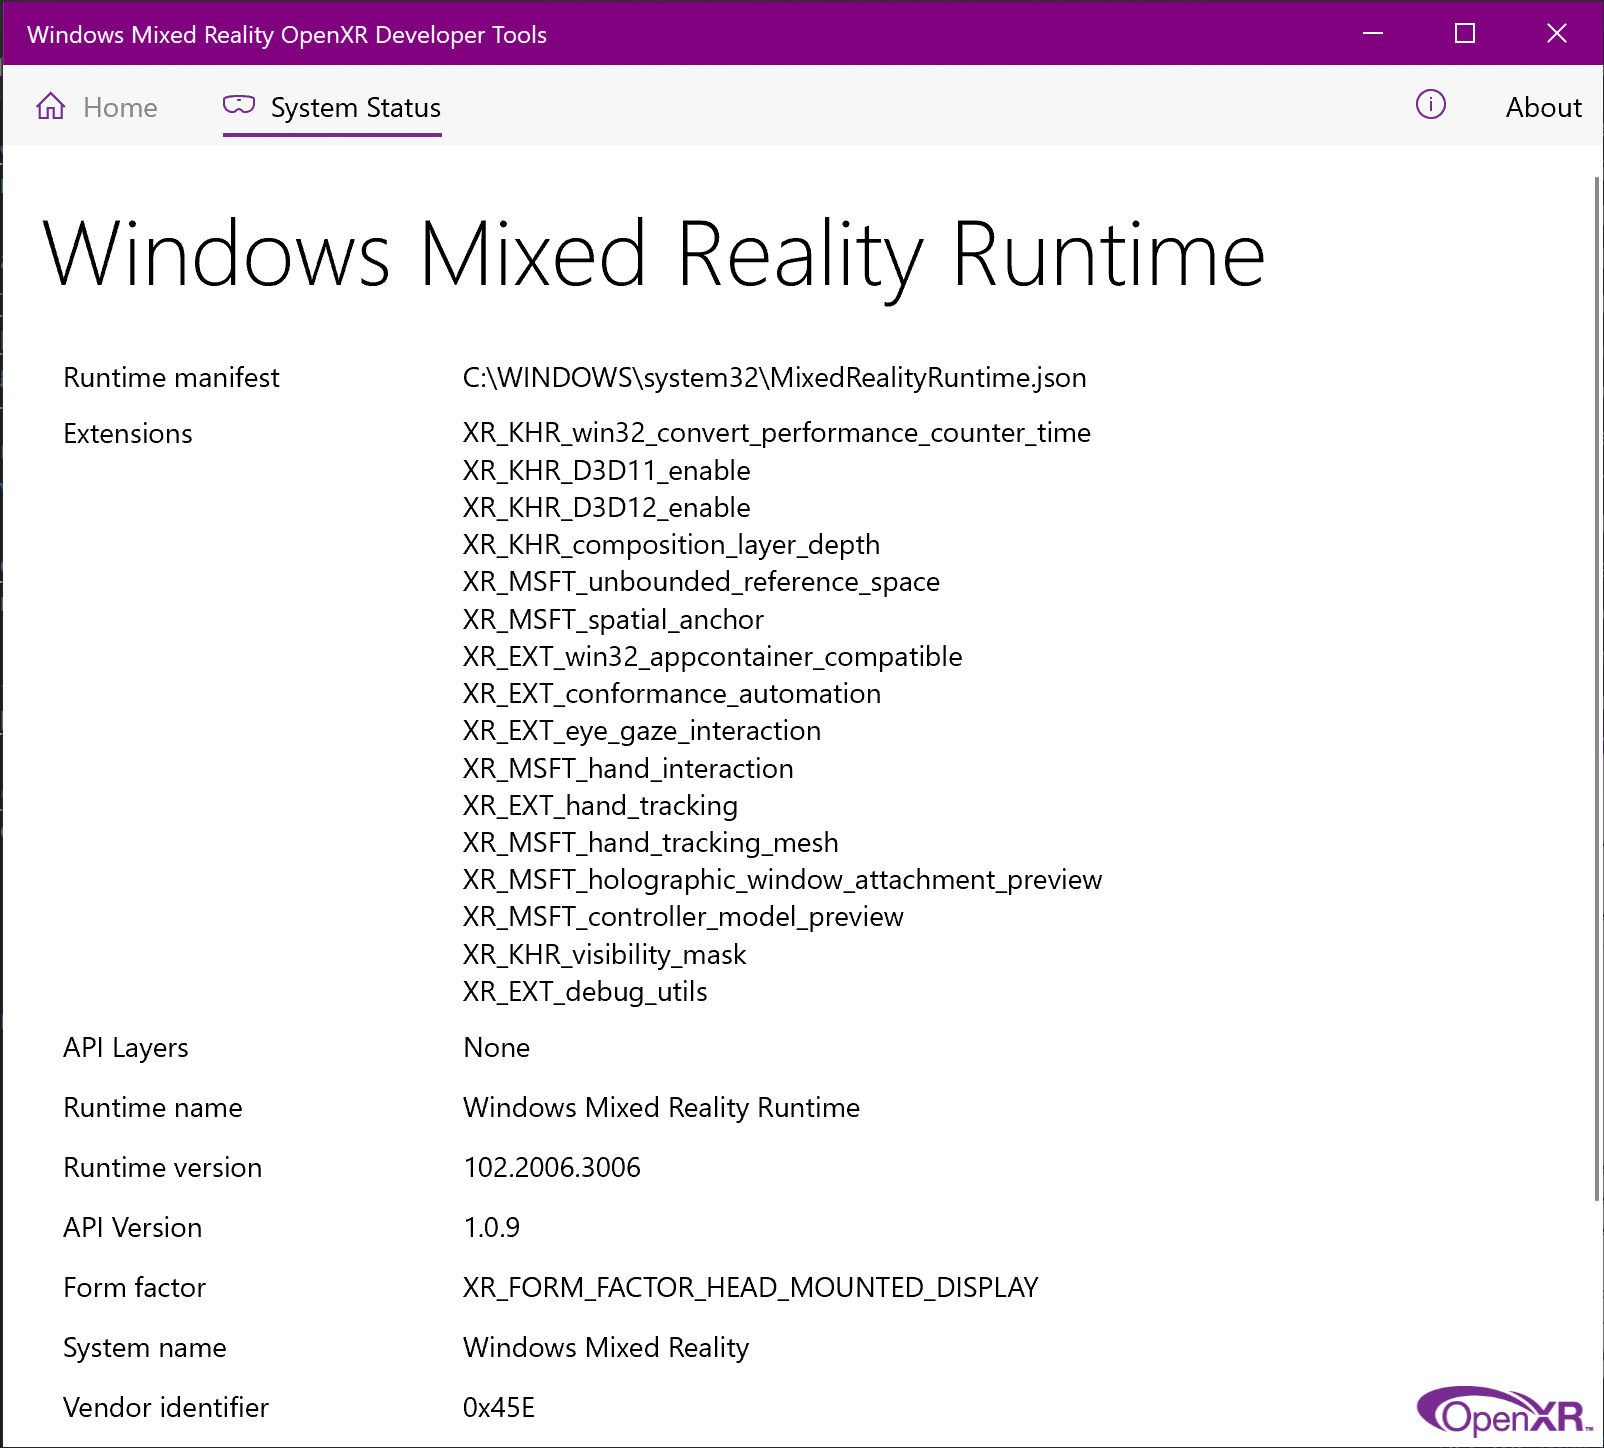
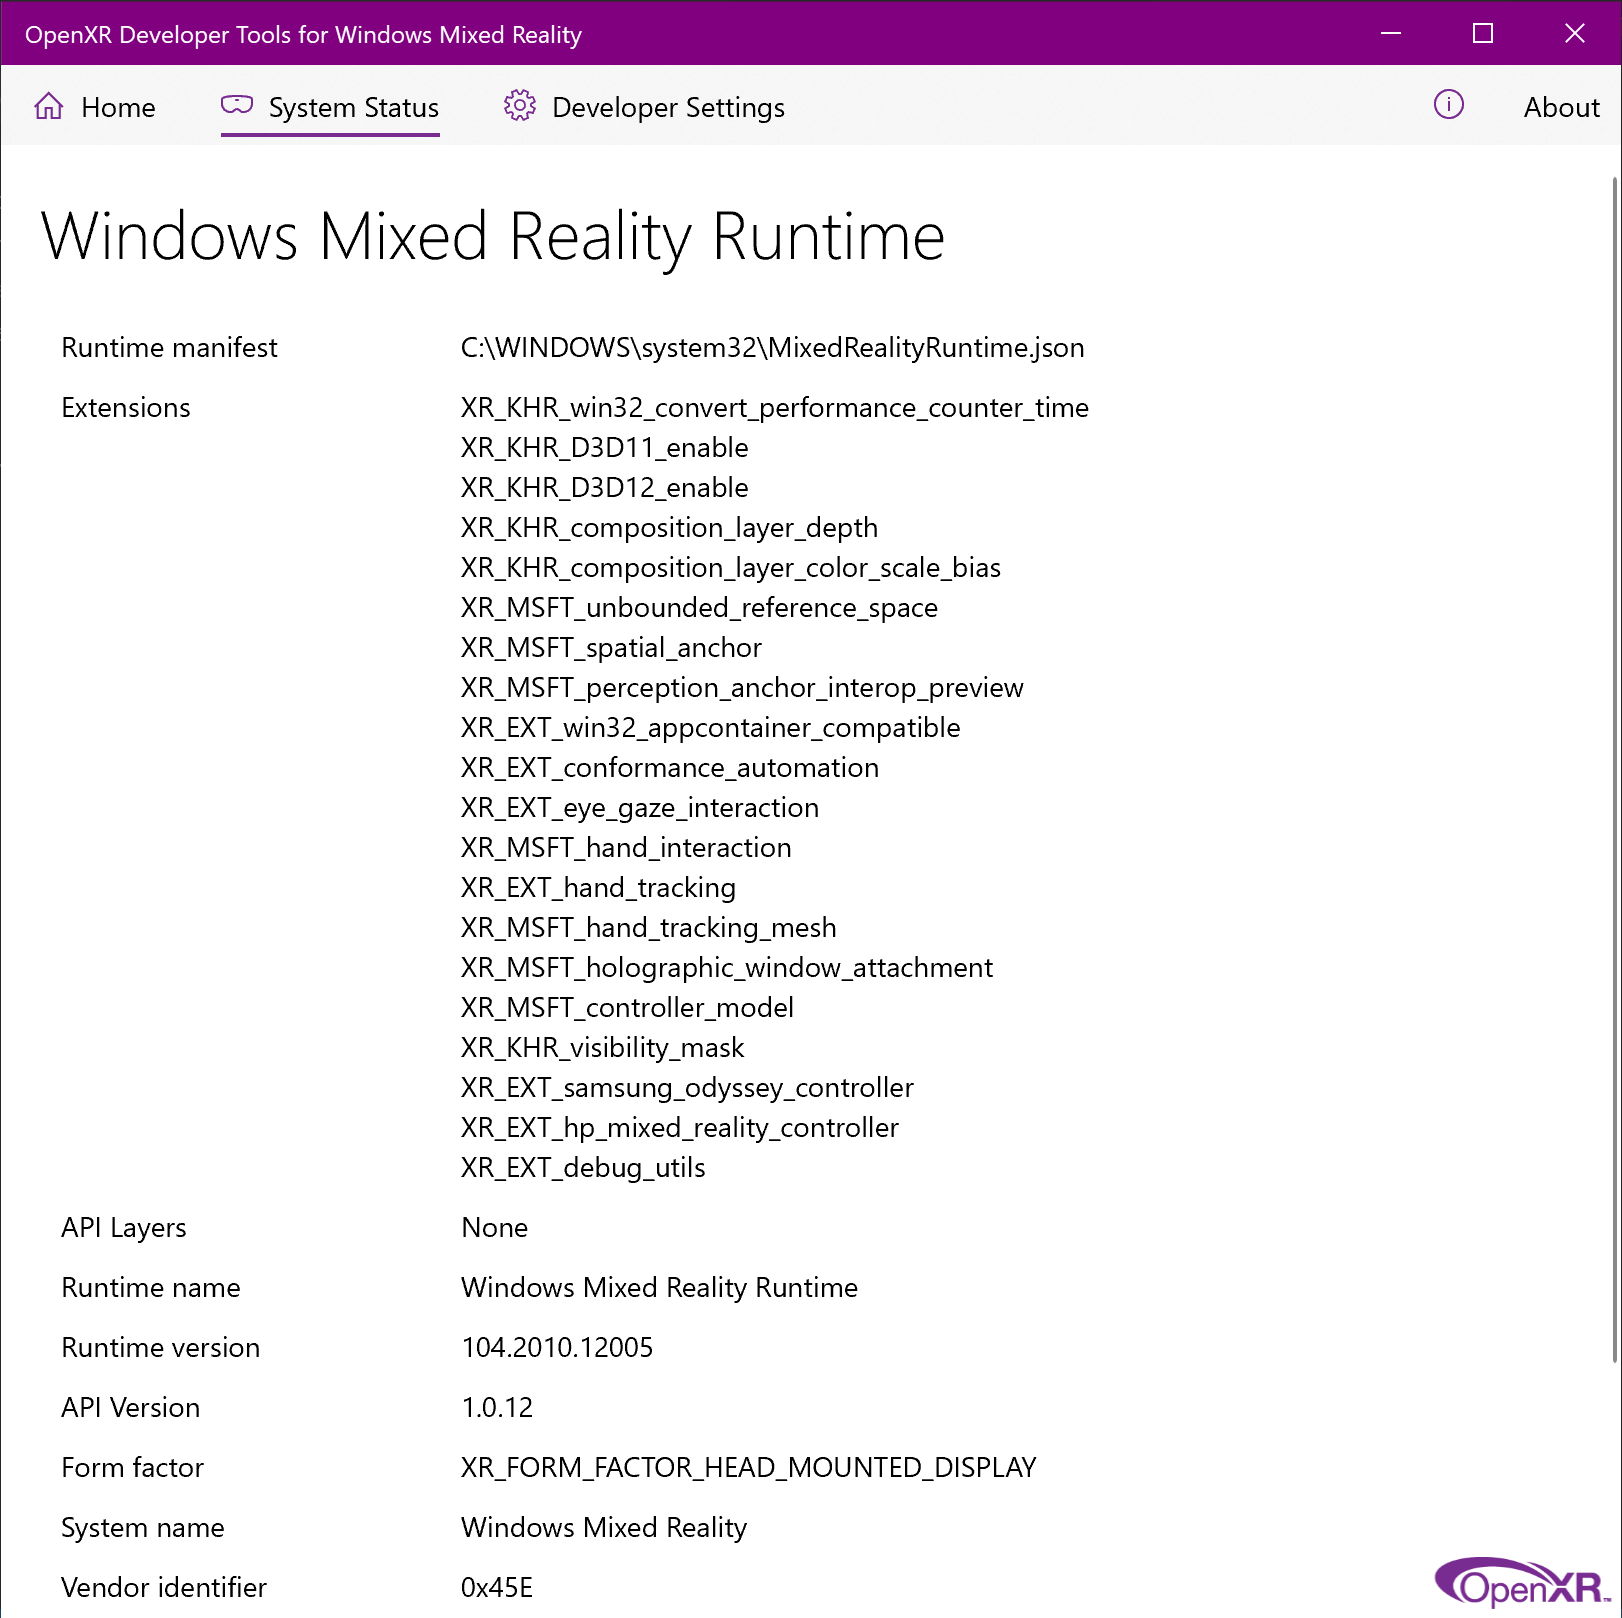
OpenXR runtime 103/104 updates

diff --git a/mixed-reality-docs/mr-dev-docs/develop/native/openxr-getting-started.md b/mixed-reality-docs/mr-dev-docs/develop/native/openxr-getting-started.md
@@ -5,7 +5,7 @@ author: thetuvix
 ms.author: alexturn
 ms.date: 2/28/2020
 ms.topic: article
-keywords: OpenXR, Khronos, BasicXRApp, Windows Mixed Reality OpenXR Developer Tools, DirectX, native, native app, custom engine, middleware, getting started, 101, preview extensions, OpenXR runtime version, system status
+keywords: OpenXR, Khronos, BasicXRApp, Windows Mixed Reality, OpenXR Developer Tools, DirectX, native, native app, custom engine, middleware, getting started, 101, preview extensions, OpenXR runtime version, system status
 ---
 
 
@@ -29,16 +29,15 @@ To start developing OpenXR applications for immersive Windows Mixed Reality head
 
 That's it!  The Windows Mixed Reality OpenXR runtime is installed and made active automatically for all Windows Mixed Reality users.  The Microsoft Store then keeps the runtime up to date.
 
-If you ever need to make the Windows Mixed Reality OpenXR Runtime active again, launch Mixed Reality Portal from the Start menu, click the ... menu in the lower-left and select "Set up OpenXR".  If that menu item is missing, the OpenXR runtime is already active.<br>
-![Setting up OpenXR in the Mixed Reality Portal](images/mixed-reality-portal-set-up-openxr.png)
+If you ever need to make the Windows Mixed Reality OpenXR Runtime active again, launch Mixed Reality Portal from the Start menu, and click "Fix it" in the banner at the top of the window.  If that button is missing, the OpenXR runtime is already active.<br>
 
-## Getting the Windows Mixed Reality OpenXR Developer Tools
+## Getting the OpenXR Developer Tools for Windows Mixed Reality
 
-To try out the Windows Mixed Reality OpenXR Runtime, you can install the <a href="https://www.microsoft.com/store/productId/9n5cvvl23qbt" target="_blank">Mixed Reality OpenXR Developer Tools app</a>.  This app provides a demo scene that exercises various features of OpenXR, along with a System Status page that provides key information about the active runtime and the current headset.
+To try out the Windows Mixed Reality OpenXR Runtime, you can install the <a href="https://www.microsoft.com/store/productId/9n5cvvl23qbt" target="_blank">OpenXR Developer Tools for Windows Mixed Reality app</a>.  This app provides a demo scene that exercises various features of OpenXR, along with a System Status page that provides key information about the active runtime and the current headset.
 
-If using the HoloLens 2 emulator, the easiest way to install the Mixed Reality OpenXR Developer Tools is using [Windows Device Portal](../platform-capabilities-and-apis/using-the-windows-device-portal.md), by navigating to the "OpenXR" page and then clicking the "Install" button under "Developer Features". (this works on a physical HoloLens 2 device as well)
+If using the HoloLens 2 emulator, the easiest way to install the OpenXR Developer Tools for Windows Mixed Reality is using [Windows Device Portal](../platform-capabilities-and-apis/using-the-windows-device-portal.md), by navigating to the "OpenXR" page and then clicking the "Install" button under "Developer Features". (this works on a physical HoloLens 2 device as well)
 
-![Mixed Reality OpenXR Developer Tools app](images/mixed-reality-openxr-developer-tools.png)
+![OpenXR Developer Tools for Windows Mixed Reality app](images/mixed-reality-openxr-developer-tools.png)
 
 ## Building a sample OpenXR app
 
@@ -54,8 +53,7 @@ After building an OpenXR UWP app package, you can [deploy that package](../platf
 
 ## Learning the OpenXR API
 
-For a tour of the OpenXR API, check out this 60-minute video that walks through the code of the <a href="https://github.com/microsoft/OpenXR-MixedReality/tree/master/samples/BasicXrApp" target="_blank">BasicXrApp</a> sample in Visual Studio.  The video shows how each of the major components of the OpenXR API can be used in your own engine, and also demonstrates some of the applications built on OpenXR today.
-
+For a tour of the OpenXR API, check out this 60-minute video that walks through the code of the <a href="https://github.com/microsoft/OpenXR-MixedReality/tree/master/samples/BasicXrApp" target="_blank">BasicXrApp</a> sample in Visual Studio.  The video shows how each of the major components of the OpenXR API can be used in your own engine, and also demonstrates some of the applications built on OpenXR today:
 >[!VIDEO https://channel9.msdn.com/Shows/Docs-Mixed-Reality/OpenXR-Cross-platform-native-mixed-reality/player?format=ny]
 
 ## Integrate the OpenXR loader into a project
@@ -83,7 +81,7 @@ To see an example of the OpenXR API in action, check out the <a href="https://gi
 
 If you want to build the loader yourself, for example to avoid the extra loader .DLL, you can pull the official Khronos OpenXR loader sources into your project.  This will give you access to OpenXR 1.0 core features, plus published `KHR`, `EXT` and `MSFT` extensions.
 
-To get started here, follow the instructions in the <a href="https://github.com/KhronosGroup/OpenXR-SDK" target="_blank">Khronos OpenXR-SDK repo on GitHub</a>.  The project is set up to build with CMake - if you are using MSBuild, you will need to copy to the code into your own project.
+To get started here, follow the instructions in the <a href="https://github.com/KhronosGroup/OpenXR-SDK" target="_blank">Khronos OpenXR-SDK repo on GitHub</a>.  The project is set up to build with CMake - if you are using MSBuild, you will need to copy the code into your own project.
 
 ## Using preview extensions
 
@@ -95,13 +93,11 @@ If you're interested to try out the available `MSFT_preview` extensions, go thro
 
 To then activate preview extension support on your target HoloLens 2 or desktop PC:
   1. To make sure you've got the latest OpenXR runtime with all [extensions](openxr.md#roadmap) present, launch the **Store** app from within the target device or emulator, open the menu in the upper-right, click **Downloads and updates** and click **Get updates**.
-  1. Enable Windows Device Portal on the target device:
-     * If your target device is a HoloLens 2 device, [follow these instructions](../platform-capabilities-and-apis/using-the-windows-device-portal.md) on the target device.  Note that this requires a physical headset, as a known issue in the HoloLens 2 emulator will prevent the UI in the next step from appearing in the emulator.
-     * If your target device is a desktop PC with an immersive headset peripheral attached, <a href="https://docs.microsoft.com/windows/uwp/debug-test-perf/device-portal-desktop#set-up-device-portal-on-windows-desktop" target="_blank">follow these instructions</a> on the target desktop PC.
-  1. Navigate to the **OpenXR** tab in the left pane and enable **Use latest preview OpenXR runtime**.  This enables the preview runtime on your device, which has preview extensions activated.
-     ![Device Portal OpenXR preview runtime checkbox](images/device-portal-openxr-preview-runtime.png)
-  1. Confirm that the **Runtime version** shown on the **System Status** tab of the [Windows Mixed Reality OpenXR Developer Tools](openxr-getting-started.md#getting-the-windows-mixed-reality-openxr-developer-tools) now matches the required version of the preview extensions you plan to try.  If so, you should see the extension in the **Extensions** list.  Note that once a stable extension is available, its preview extension will be removed.<br />
-     ![Mixed Reality OpenXR Developer Tools app System Status tab](images/mixed-reality-openxr-developer-tools-status.png)
+  1. Install the <a href="https://www.microsoft.com/store/productId/9n5cvvl23qbt" target="_blank">OpenXR Developer Tools for Windows Mixed Reality app</a> from the Microsoft Store onto the target device and run it.
+  1. Navigate to the **Developer Settings** tab and enable **Use latest preview OpenXR runtime**.  This enables the preview runtime on your device, which has preview extensions activated.
+     ![OpenXR Developer Tools for Windows Mixed Reality app Developer Settings tab](images/mixed-reality-openxr-developer-tools-settings.png)
+  1. Confirm that the **Runtime version** shown on the **System Status** tab of the [OpenXR Developer Tools for Windows Mixed Reality](openxr-getting-started.md#getting-the-windows-mixed-reality-openxr-developer-tools) now matches the required version of the preview extensions you plan to try.  If so, you should see the extension in the **Extensions** list.  Note that once a stable extension is available, its preview extension will be removed.<br />
+     ![OpenXR Developer Tools for Windows Mixed Reality app System Status tab](images/mixed-reality-openxr-developer-tools-status.png)
 
 See the <a href="https://github.com/microsoft/OpenXR-MixedReality#openxr-preview-extensions" target="_blank">Mixed Reality OpenXR repo</a> for documentation of these preview extensions and samples of how to use them.
 

diff --git a/mixed-reality-docs/mr-dev-docs/develop/native/openxr.md b/mixed-reality-docs/mr-dev-docs/develop/native/openxr.md
@@ -60,11 +60,12 @@ As of July 2020, the Windows Mixed Reality OpenXR Runtime supports a set of `MSF
 | [Hand interaction<br />(grip/aim pose, air-tap, grasp)](../../design/hands-and-tools.md)<p>*HoloLens 2 only*</p> | **`MSFT` extension released:**<br /><code><a href="https://www.khronos.org/registry/OpenXR/specs/1.0/html/xrspec.html#XR_MSFT_hand_interaction">XR_MSFT_hand_interaction</a></code> |
 | [Hand articulation + hand mesh](../../design/hands-and-tools.md)<p>*HoloLens 2 only*</p> | <p>**`EXT` extension released in runtime 102:**<code><br /><a href="https://www.khronos.org/registry/OpenXR/specs/1.0/html/xrspec.html#XR_EXT_hand_tracking">XR_EXT_hand_tracking</a></code></p>**`MSFT` extension released in runtime 102:**<br /><code><a href="https://www.khronos.org/registry/OpenXR/specs/1.0/html/xrspec.html#XR_MSFT_hand_tracking_mesh">XR_MSFT_hand_tracking_mesh</a></code> |
 | [Eye gaze](../../design/eye-tracking.md)<p>*HoloLens 2 only*</p> | **`EXT` extension released:**<br /><code><a href="https://www.khronos.org/registry/OpenXR/specs/1.0/html/xrspec.html#XR_EXT_eye_gaze_interaction" target="_blank">XR_EXT_eye_gaze_interaction</a></code> |
-| Interop with other HoloLens SDKs<br />(e.g. [QR](../platform-capabilities-and-apis/qr-code-tracking.md))<p>*HoloLens 2 only*</p> | **`MSFT` extension released in runtime 102:**<br /><code><a href="https://www.khronos.org/registry/OpenXR/specs/1.0/html/xrspec.html#XR_MSFT_spatial_graph_bridge">XR_MSFT_spatial_graph_bridge</a></code> |
+| Interop with other HoloLens SDKs<br />(e.g. [QR](../platform-capabilities-and-apis/qr-code-tracking.md))<p>*HoloLens 2 only*</p> | <p>**`MSFT` extension released in runtime 102:**<br /><code><a href="https://www.khronos.org/registry/OpenXR/specs/1.0/html/xrspec.html#XR_MSFT_spatial_graph_bridge">XR_MSFT_spatial_graph_bridge</a></code></p><p>**`MSFT` extension in [preview runtime 104](openxr-getting-started.md#using-preview-extensions):**<br /><code><a href="https://microsoft.github.io/OpenXR-MixedReality/openxr_preview/specs/openxr.html#XR_MSFT_perception_anchor_interop_preview">XR_MSFT_perception_anchor_interop_preview</a></code></p> |
 | [Mixed Reality Capture<br />(third render from PV camera)](../platform-capabilities-and-apis/mixed-reality-capture-for-developers.md#render-from-the-pv-camera-opt-in)<p>*HoloLens 2 only*</p> | **`MSFT` extensions released in runtime 102:**<br /><code><a href="https://www.khronos.org/registry/OpenXR/specs/1.0/html/xrspec.html#XR_MSFT_secondary_view_configuration">XR_MSFT_secondary_view_configuration</a></code><br /><code><a href="https://www.khronos.org/registry/OpenXR/specs/1.0/html/xrspec.html#XR_MSFT_first_person_observer">XR_MSFT_first_person_observer</a></code> |
-| Interop with UWP CoreWindow API<br />(e.g. for keyboard/mouse) | **`MSFT_preview` extension in [preview runtime 102](openxr-getting-started.md#using-preview-extensions):**<br /><code><a href="https://microsoft.github.io/OpenXR-MixedReality/openxr_preview/specs/openxr.html#XR_MSFT_holographic_window_attachment_preview">XR_MSFT_holographic_window_attachment_preview</a></code><p>**`MSFT` extension in preview runtime**: August 2020 *(planned)*</p>
-| [Motion controller render models](../../design/motion-controllers.md#rendering-the-motion-controller-model) | **`MSFT_preview` extension in [preview runtime](openxr-getting-started.md#using-preview-extensions):**<br /><code><a href="https://microsoft.github.io/OpenXR-MixedReality/openxr_preview/specs/openxr.html#XR_MSFT_controller_model_preview">XR_MSFT_controller_model_preview</a></code><p>**`MSFT` extension in preview runtime**: September 2020 *(planned)*</p> |
-| [Scene understanding (planes, meshes)](../../design/scene-understanding.md)<p>*HoloLens 2 only*</p> | <p>**In [preview runtime 102](openxr-getting-started.md#using-preview-extensions):**<br />Use <code><a href="https://www.khronos.org/registry/OpenXR/specs/1.0/html/xrspec.html#XR_MSFT_spatial_graph_bridge">XR_MSFT_spatial_graph_bridge</a></code> with [Scene Understanding SDK](../platform-capabilities-and-apis/scene-understanding-sdk.md)</p><p>**`MSFT_preview` extension in future preview runtime** *(planned)*</p> |
+| Interop with UWP CoreWindow API<br />(e.g. for keyboard/mouse) | **`MSFT` extension released in runtime 103:**<br /><code><a href="https://www.khronos.org/registry/OpenXR/specs/1.0/html/xrspec.html#XR_MSFT_holographic_window_attachment">XR_MSFT_holographic_window_attachment</a></code>
+| Motion controller interaction profiles (Samsung Odyssey and HP Reverb G2) | **`MSFT` extensions released in runtime 103:**<br /><code><a href="https://www.khronos.org/registry/OpenXR/specs/1.0/html/xrspec.html#XR_EXT_samsung_odyssey_controller">XR_EXT_samsung_odyssey_controller</a></code><br /><code><a href="https://www.khronos.org/registry/OpenXR/specs/1.0/html/xrspec.html#XR_EXT_hp_mixed_reality_controller">XR_EXT_hp_mixed_reality_controller</a></code> |
+| [Motion controller render models](../../design/motion-controllers.md#rendering-the-motion-controller-model) | **`MSFT` extension in [preview runtime 104](openxr-getting-started.md#using-preview-extensions):**<br /><code><a href="https://www.khronos.org/registry/OpenXR/specs/1.0/html/xrspec.html#XR_MSFT_controller_model">XR_MSFT_controller_model</a></code> |
+| [Scene understanding (planes, meshes)](../../design/scene-understanding.md)<p>*HoloLens 2 only*</p> | <p>**In [preview runtime 102 or later](openxr-getting-started.md#using-preview-extensions):**<br />Use <code><a href="https://www.khronos.org/registry/OpenXR/specs/1.0/html/xrspec.html#XR_MSFT_spatial_graph_bridge">XR_MSFT_spatial_graph_bridge</a></code> with [Scene Understanding SDK](../platform-capabilities-and-apis/scene-understanding-sdk.md)</p><p>**`MSFT_preview` extension in future preview runtime** *(planned)*</p> |
 | Other cross-vendor extensions | <p>**Official `KHR` extensions released:**</p><code><a href="https://www.khronos.org/registry/OpenXR/specs/1.0/html/xrspec.html#XR_KHR_composition_layer_depth" target="_blank">XR_KHR_composition_layer_depth</a></code><br /><code><a href="https://www.khronos.org/registry/OpenXR/specs/1.0/html/xrspec.html#XR_KHR_visibility_mask" target="_blank">XR_KHR_visibility_mask</a></code><br /><code><a href="https://www.khronos.org/registry/OpenXR/specs/1.0/html/xrspec.html#XR_KHR_win32_convert_performance_counter_time" target="_blank">XR_KHR_win32_convert_performance_counter_time</a></code><p>**`EXT` extensions released:**</p><code><a href="https://www.khronos.org/registry/OpenXR/specs/1.0/html/xrspec.html#XR_EXT_win32_appcontainer_compatible" target="_blank">XR_EXT_win32_appcontainer_compatible</a></code><br /><code><a href="https://www.khronos.org/registry/OpenXR/specs/1.0/html/xrspec.html#XR_EXT_debug_utils" target="_blank">XR_EXT_debug_utils</a></code> |
 
 While some of these extensions may start out as vendor-specific `MSFT` extensions, Microsoft and other OpenXR runtime vendors are working together to design cross-vendor `EXT` or `KHR` extensions for many of these feature areas.  This will enable the code you write for those features to be portable across runtime vendors, just as with the core specification.

diff --git a/mixed-reality-docs/mr-dev-docs/develop/native/openxr-troubleshooting.md b/mixed-reality-docs/mr-dev-docs/develop/native/openxr-troubleshooting.md
@@ -19,14 +19,6 @@ Here are some troubleshooting tips when developing an OpenXR app using the Windo
 
 ### OpenXR app not starting Windows Mixed Reality
 
-If your OpenXR app is not starting Windows Mixed Reality when you run it, the Windows Mixed Reality OpenXR Runtime may not be set as the active runtime.  Be sure to follow the instructions above for [getting started with OpenXR for Windows Mixed Reality headsets](openxr-getting-started.md#getting-started-with-openxr-for-windows-mixed-reality-headsets) to make the runtime active.
+If your OpenXR app is not starting Windows Mixed Reality when you run it, the Windows Mixed Reality OpenXR Runtime may not be set as the active runtime.  Be sure to follow the instructions for [getting started with OpenXR for Windows Mixed Reality headsets](openxr-getting-started.md#getting-started-with-openxr-for-windows-mixed-reality-headsets) to make the runtime active.
 
-You can also run the [Windows Mixed Reality OpenXR Developer Tools](openxr-getting-started.md#getting-the-windows-mixed-reality-openxr-developer-tools) for additional troubleshooting help around the state of the Windows Mixed Reality OpenXR Runtime on your system.
-
-### Mixed Reality Portal not showing "Set up OpenXR" menu item
-
-Be sure you are running at least the Windows 10 October 2018 Update (1809).  If you're on an earlier version of Windows 10, you can upgrade to the May 2019 Update (1903) using the [Windows 10 Update Assistant](https://www.microsoft.com//software-download/windows10).
-
-The "Set up OpenXR" menu item may not be available if you have an older version of the Mixed Reality Portal app.  Check for a [Mixed Reality Portal app update](https://www.microsoft.com/p/mixed-reality-portal/9ng1h8b3zc7m) to ensure you have the latest version.
-
-Note that the "Set up OpenXR" menu item will not show up if the Windows Mixed Reality OpenXR Runtime is already installed and active.  You can install the [Windows Mixed Reality OpenXR Developer Tools](openxr-getting-started.md#getting-the-windows-mixed-reality-openxr-developer-tools) to determine the current status of the OpenXR runtime on your system.
+You can also run the [OpenXR Developer Tools for Windows Mixed Reality](openxr-getting-started.md#getting-the-windows-mixed-reality-openxr-developer-tools) for additional troubleshooting help around the state of the Windows Mixed Reality OpenXR Runtime on your system.
